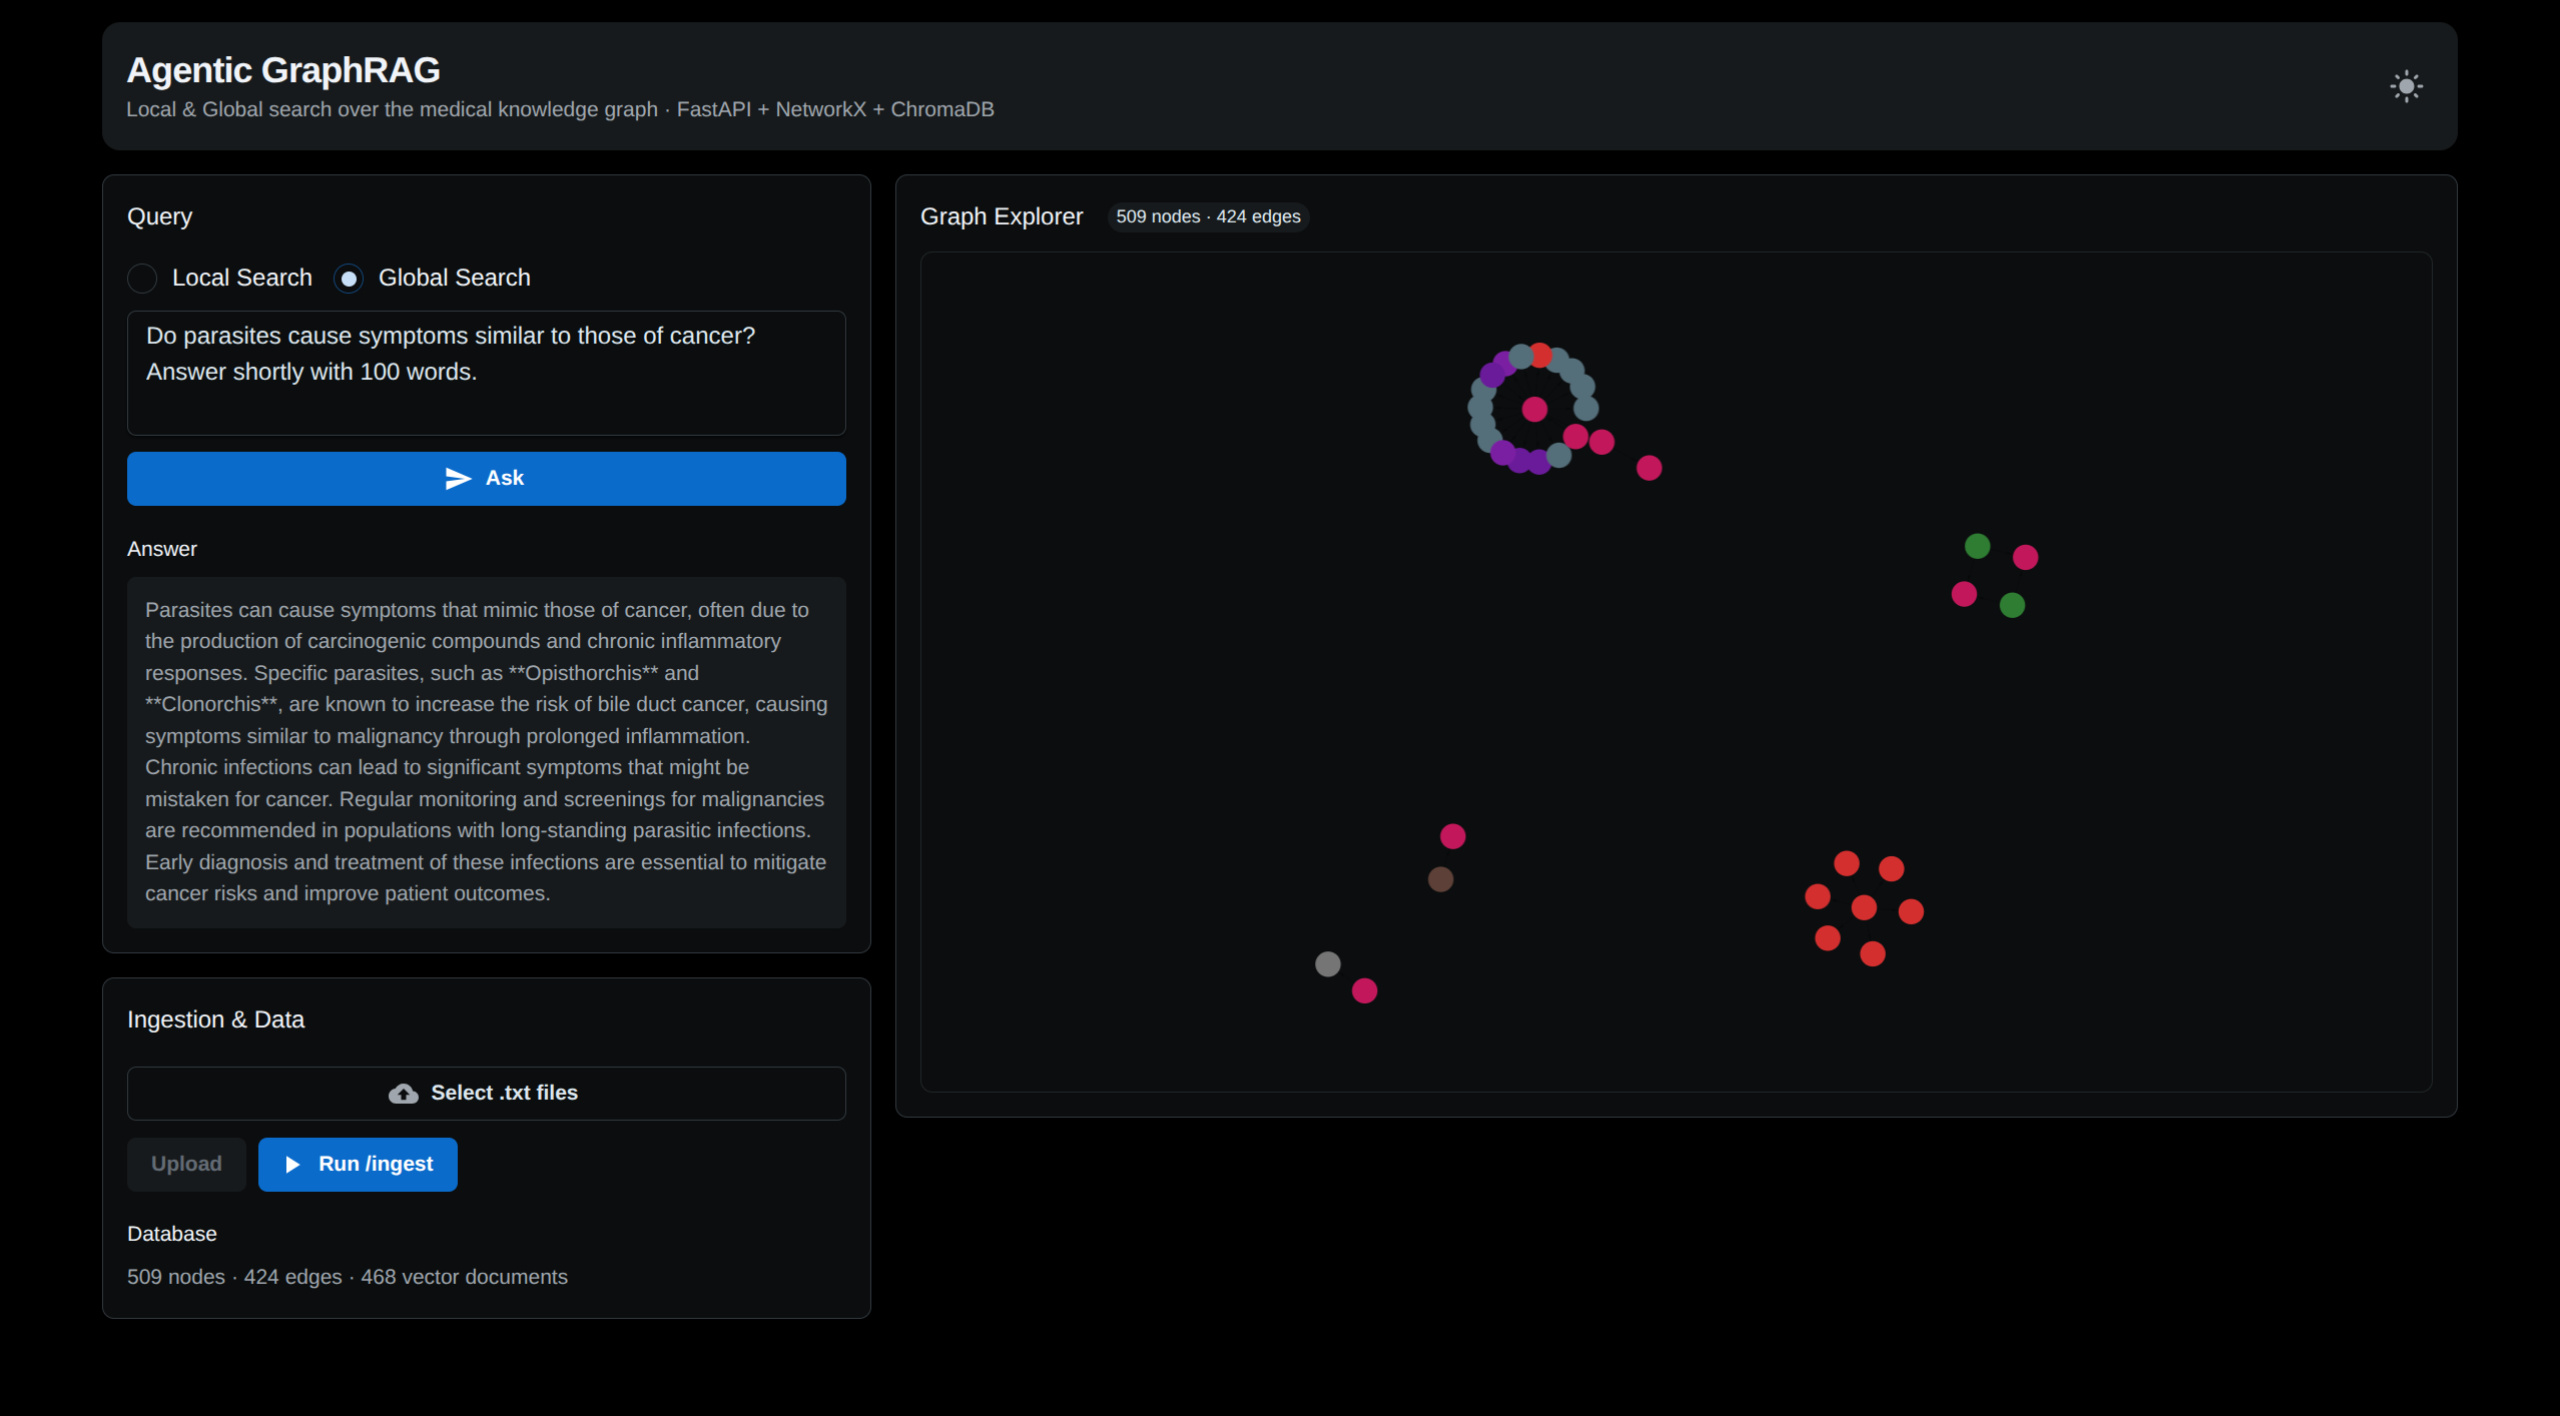
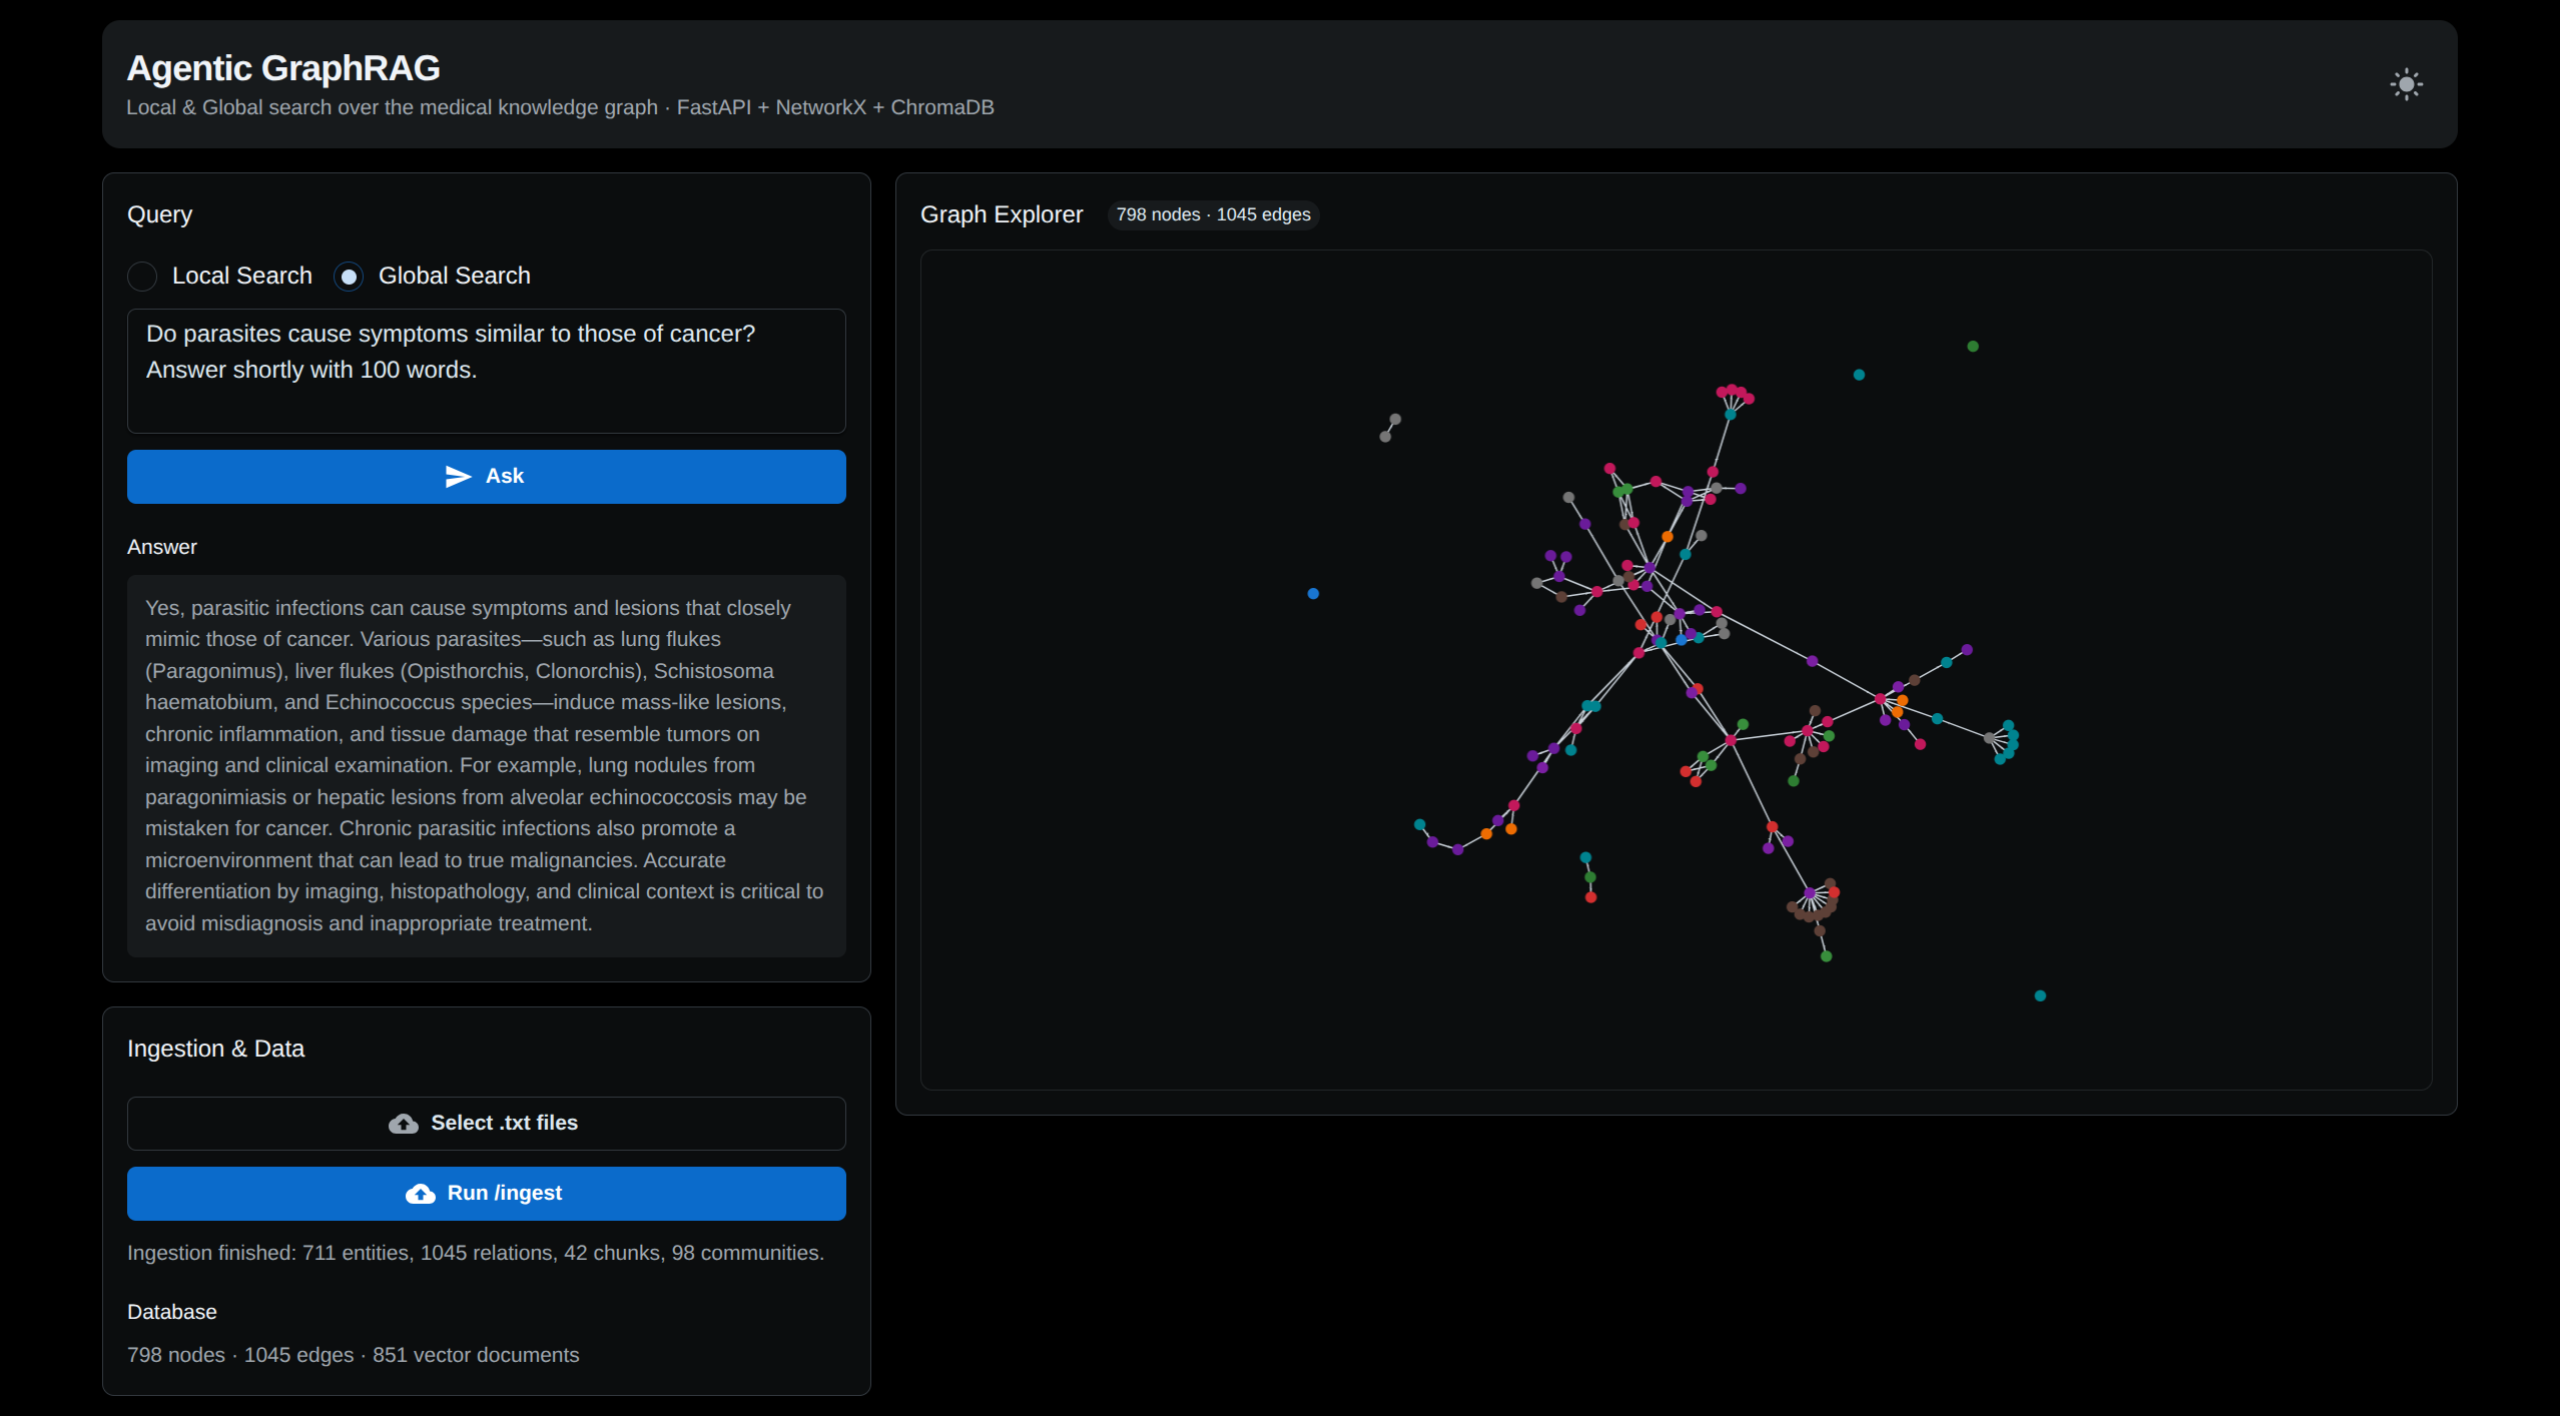
fix: secure access, prevent vector-index loss, and surface ingest details
- require Entra ID login on the frontend (app registration, service
  principal with app_role_assignment_required, current user assigned) via
  the authConfig; make the backend ingress internal-only so it is only
  reachable from within the environment
- keep the API container warm (min_replicas = 1) so scale-to-zero cold
  starts no longer wipe the ephemeral Chroma vector index
- expose the list of files being ingested in /progress and show it in the
  UI so it is clear which documents /ingest processes
- retry transient Azure OpenAI 404s/5xx during ingestion, return a clean
  503 with the reason from /query, and surface backend detail messages
  (e.g. 'ingestion already running' for 409) in the UI

diff --git a/frontend/src/components/IngestionPanel.tsx b/frontend/src/components/IngestionPanel.tsx
@@ -10,7 +10,7 @@ import ListItem from "@mui/joy/ListItem";
 import Stack from "@mui/joy/Stack";
 import Typography from "@mui/joy/Typography";
 import CloudUploadIcon from "@mui/icons-material/CloudUpload";
-import { fetchProgress, fetchStats, runIngest, uploadFiles } from "../api";
+import { errorMessage, fetchProgress, fetchStats, runIngest, uploadFiles } from "../api";
 import type { GraphStats, IngestProgress } from "../types";
 
 interface IngestionPanelProps {
@@ -107,7 +107,7 @@ export default function IngestionPanel({ onStatsChange }: IngestionPanelProps) {
         await uploadFiles(files);
         setFiles([]);
       } catch (err) {
-        setError(err instanceof Error ? err.message : "Upload failed");
+        setError(errorMessage(err));
         setStatus(null);
         setPhase("idle");
         return;
@@ -119,7 +119,7 @@ export default function IngestionPanel({ onStatsChange }: IngestionPanelProps) {
     try {
       await runIngest();
     } catch (err) {
-      setError(err instanceof Error ? err.message : "Ingestion failed to start");
+      setError(errorMessage(err));
       setStatus(null);
       setPhase("idle");
     }
@@ -176,6 +176,11 @@ export default function IngestionPanel({ onStatsChange }: IngestionPanelProps) {
         {progress && progress.running && progress.total_files > 0 ? (
           <Typography level="body-xs" color="neutral" sx={{ mt: 0.5 }}>
             {progress.processed_files} of {progress.total_files} files processed
+          </Typography>
+        ) : null}
+        {progress && progress.files && progress.files.length > 0 ? (
+          <Typography level="body-xs" color="neutral" sx={{ mt: 0.5 }}>
+            Files in data: {progress.files.join(", ")}
           </Typography>
         ) : null}
         {stats ? (

diff --git a/frontend/src/api.ts b/frontend/src/api.ts
@@ -3,6 +3,19 @@ import type { GraphStats, IngestProgress, IngestStats, QueryResponse, SearchMode
 
 const client = axios.create({ baseURL: "/api", timeout: 1800000 });
 
+// Extract a readable message from an axios/fetch error, preferring the
+// backend's `detail` field (e.g. FastAPI HTTPException) over the generic
+// "Request failed with status code 5xx" text.
+export function errorMessage(err: unknown): string {
+  if (err && typeof err === "object" && "response" in err) {
+    const detail = (err as { response?: { data?: { detail?: unknown } } }).response?.data?.detail;
+    if (detail) {
+      return String(detail);
+    }
+  }
+  return err instanceof Error ? err.message : String(err);
+}
+
 export async function runQuery(query: string, mode: SearchMode): Promise<QueryResponse> {
   const response = await client.post<QueryResponse>("/query", { query, mode });
   return response.data;

diff --git a/frontend/src/components/QueryPanel.tsx b/frontend/src/components/QueryPanel.tsx
@@ -10,7 +10,7 @@ import Sheet from "@mui/joy/Sheet";
 import Textarea from "@mui/joy/Textarea";
 import Typography from "@mui/joy/Typography";
 import SendIcon from "@mui/icons-material/Send";
-import { runQuery } from "../api";
+import { errorMessage, runQuery } from "../api";
 import type { SearchMode, Subgraph } from "../types";
 
 interface QueryPanelProps {
@@ -35,7 +35,7 @@ export default function QueryPanel({ onResult }: QueryPanelProps) {
       setAnswer(result.answer);
       onResult(result.subgraph);
     } catch (err) {
-      setError(err instanceof Error ? err.message : "Query failed");
+      setError(errorMessage(err));
     } finally {
       setLoading(false);
     }

diff --git a/frontend/src/types.ts b/frontend/src/types.ts
@@ -37,6 +37,7 @@ export interface IngestProgress {
   total_files: number;
   processed_files: number;
   current_file: string;
+  files: string[];
   result: IngestStats | null;
   error: string | null;
 }

diff --git a/backend/src/storage/vector_store.py b/backend/src/storage/vector_store.py
@@ -37,11 +37,13 @@ class ChromaVectorStore(AbstractVectorStore):
             base_url=config.openai_base_url or None,
         )
 
-    def _embed(self, texts: list[str]) -> list[list[float]]:
+    def _embed(self, texts: list[str], attempts: int = 4, delay: float = 1.0) -> list[list[float]]:
         response = _retry_call(
             self._embed_client.embeddings.create,
             model=self._config.embedding_model,
             input=texts,
+            attempts=attempts,
+            delay=delay,
         )
         return [item.embedding for item in response.data]
 
@@ -54,7 +56,9 @@ class ChromaVectorStore(AbstractVectorStore):
         if not documents:
             return
         metadata_list = metadatas or [{} for _ in documents]
-        embeddings = self._embed(documents)
+        # Ingestion runs in the background, so it can afford a longer retry
+        # window to ride out transient Azure OpenAI 404/5xx hiccups.
+        embeddings = self._embed(documents, attempts=6, delay=1.5)
         self._collection.upsert(
             ids=ids,
             documents=documents,

diff --git a/backend/app.py b/backend/app.py
@@ -100,6 +100,10 @@ def ingest_progress() -> dict:
 
 @app.post("/query")
 def query(request: QueryRequest) -> dict:
-    if request.mode == "global":
-        return global_search(request.query, config, graph_store, vector_store)
-    return local_search(request.query, config, graph_store, vector_store)
+    try:
+        if request.mode == "global":
+            return global_search(request.query, config, graph_store, vector_store)
+        return local_search(request.query, config, graph_store, vector_store)
+    except Exception as exc:
+        logger.exception("query failed")
+        raise HTTPException(status_code=503, detail=f"Search unavailable: {exc}") from exc

diff --git a/backend/src/progress.py b/backend/src/progress.py
@@ -6,18 +6,20 @@ _state = {
     "total_files": 0,
     "processed_files": 0,
     "current_file": "",
+    "files": [],
     "result": None,
     "error": None,
 }
 
 
-def start(total_files: int) -> None:
+def start(total_files: int, files: list[str]) -> None:
     with _lock:
         _state.update(
             running=True,
             total_files=total_files,
             processed_files=0,
             current_file="",
+            files=files,
             result=None,
             error=None,
         )

diff --git a/backend/src/ingestion.py b/backend/src/ingestion.py
@@ -137,7 +137,7 @@ def run_ingestion(
     vector_store.reset()
     files = sorted(glob.glob(os.path.join(config.data_dir, "*.txt")))
     logger.info("ingestion started: %d file(s) in %s", len(files), config.data_dir)
-    progress_start(len(files))
+    progress_start(len(files), [os.path.basename(path) for path in files])
     client = config.client()
     stats = {
         "files": len(files),
